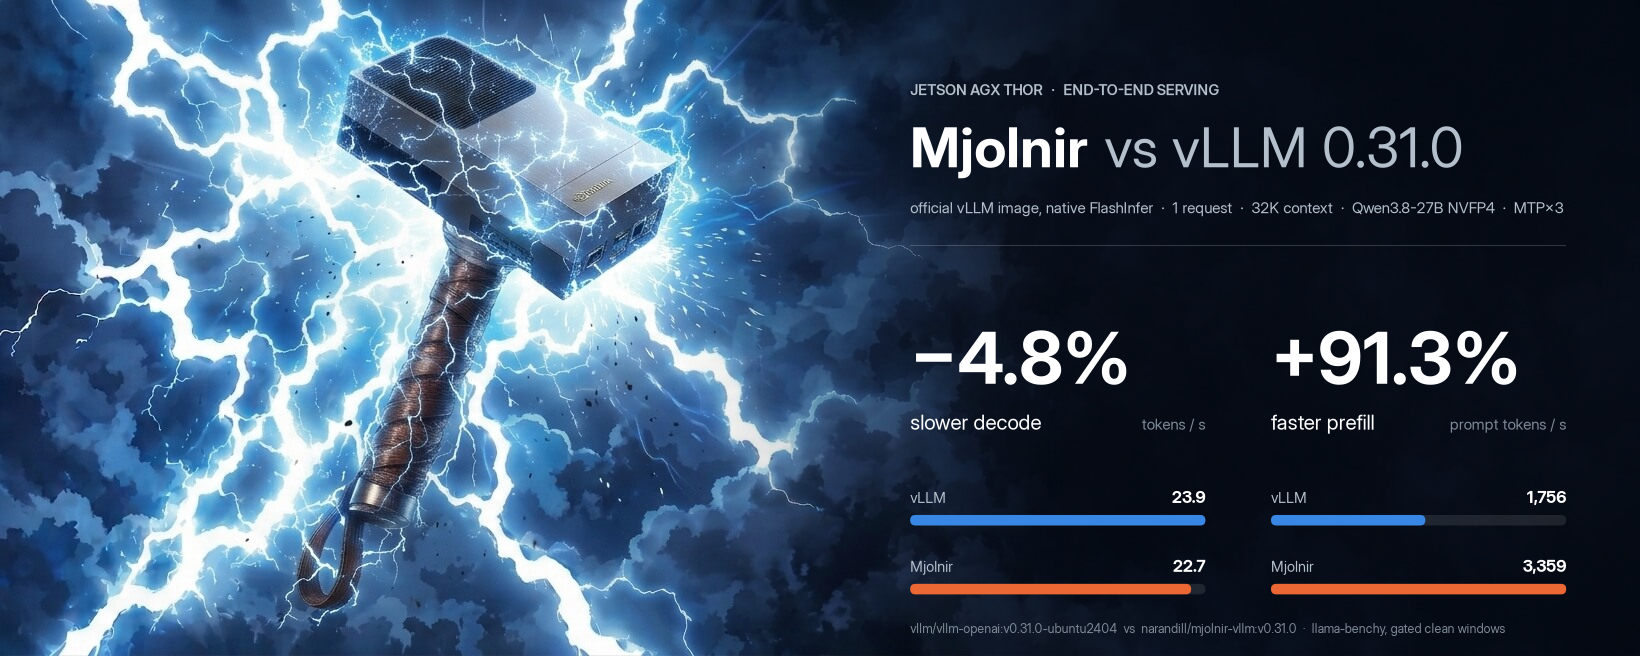
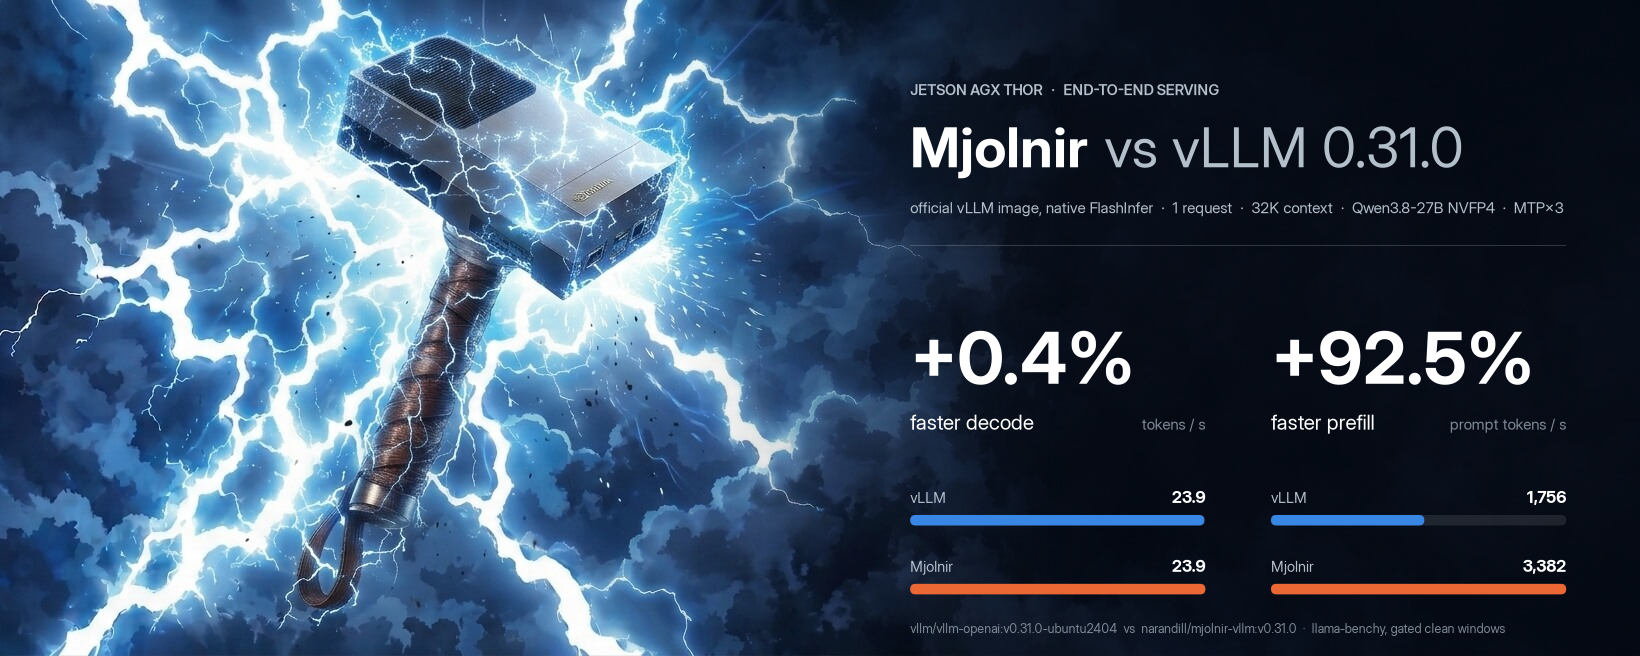
update base model + bench results for E2M3

diff --git a/src/mjolnir-cli/mjolnir_cli/config.py b/src/mjolnir-cli/mjolnir_cli/config.py
@@ -22,7 +22,7 @@ import yaml
 
 # ── Model / config ───────────────────────────────────────────────────────────
 DEFAULT_MODEL = "Qwen/Qwen3.8-27B"
-DEFAULT_QUANT = "NVFP4_MJOLNIR"  # --attention-backend MJOLNIR (this repo's kernel)
+DEFAULT_QUANT = "NVFP4_MJOLNIR_E2M3"  # --attention-backend MJOLNIR (this repo's kernel)
 BASELINE_QUANT = "NVFP4"  # FlashInfer — the fastest stock backend on Thor
 FA2_QUANT = "NVFP4_FA2"  # FlashAttention 2 — vLLM 0.31.0's sm_110 default (bf16 KV)
 SERVED_MODEL_NAME = "Qwen/Qwen3.8-27B"

diff --git a/README.md b/README.md
@@ -44,7 +44,7 @@ Every generated token re-reads the whole KV cache, so on a 273 GB/s edge GPU **d
 </picture>
 </p>
 
-> <sub>End to end on a Jetson AGX Thor (MTP, 3 speculative tokens), one request at 32K context: decode <b>−4.8%</b>, prefill <b>+91.3%</b>, time to first token <b>19.96 s → 11.40 s</b>, inter-token latency <b>42.0 ms → 44.5 ms</b> vs the official vLLM image — <a href="#official-vllm-image-vs-mjolnir">all cells</a>.</sub>
+> <sub>End to end on a Jetson AGX Thor (MTP, 3 speculative tokens), one request at 32K context: decode <b>+0.4%</b>, prefill <b>+92.5%</b>, time to first token <b>19.96 s → 11.33 s</b>, inter-token latency <b>42.0 ms → 42.1 ms</b> vs the official vLLM image — <a href="#official-vllm-image-vs-mjolnir">all cells</a>.</sub>
 
 <p align="center">
 <picture>
@@ -148,23 +148,23 @@ Each cell: official → **Mjolnir** (gain; positive = Mjolnir better: green = be
 
 | context | requests | decode (t/s, ↑) | prefill (t/s, ↑) | TTFT (ms, ↓) | ITL (ms, ↓) |
 |--:|--:|--:|--:|--:|--:|
-| no ctx | 1 | 24.6 → **24.0** ($\color{grey}{\text{−2.6\%}}$) | — | 819 → **740** ($\color{#16a34a}{\text{+10.6\%}}$) | 40.9 → **42.4** ($\color{#dc2626}{\text{−3.5\%}}$) |
-| 4K | 1 | 25.6 → **24.3** ($\color{#dc2626}{\text{−5.0\%}}$) | 2,852 → **8,210** ($\color{#16a34a}{\text{+187.8\%}}$) | 2,289 → **1,788** ($\color{#16a34a}{\text{+28.0\%}}$) | 39.4 → **41.4** ($\color{#dc2626}{\text{−4.8\%}}$) |
-| 8K | 1 | 22.9 → **23.1** ($\color{grey}{\text{+0.9\%}}$) | 2,559 → **4,545** ($\color{#16a34a}{\text{+77.6\%}}$) | 4,136 → **3,292** ($\color{#16a34a}{\text{+25.6\%}}$) | 44.1 → **43.4** ($\color{grey}{\text{+1.6\%}}$) |
-| 16K | 1 | 23.5 → **23.6** ($\color{grey}{\text{+0.5\%}}$) | 2,203 → **3,895** ($\color{#16a34a}{\text{+76.8\%}}$) | 8,501 → **5,771** ($\color{#16a34a}{\text{+47.3\%}}$) | 43.3 → **42.6** ($\color{grey}{\text{+1.7\%}}$) |
-| 32K | 1 | 23.9 → **22.7** ($\color{#dc2626}{\text{−4.8\%}}$) | 1,756 → **3,359** ($\color{#16a34a}{\text{+91.3\%}}$) | 19,960 → **11,405** ($\color{#16a34a}{\text{+75.0\%}}$) | 42.0 → **44.5** ($\color{#dc2626}{\text{−5.6\%}}$) |
-| no ctx | 2 | 44.3 → **45.9** ($\color{#16a34a}{\text{+3.7\%}}$) | 2,724 → **3,245** ($\color{#16a34a}{\text{+19.1\%}}$) | 1,443 → **1,138** ($\color{#16a34a}{\text{+26.9\%}}$) | 42.7 → **40.6** ($\color{#16a34a}{\text{+5.2\%}}$) |
-| 4K | 2 | 45.1 → **41.7** ($\color{#dc2626}{\text{−7.4\%}}$) | 2,746 → **3,502** ($\color{#16a34a}{\text{+27.5\%}}$) | 4,415 → **3,384** ($\color{#16a34a}{\text{+30.4\%}}$) | 41.5 → **44.8** ($\color{#dc2626}{\text{−7.3\%}}$) |
-| 8K | 2 | 43.9 → **43.5** ($\color{grey}{\text{−0.8\%}}$) | 2,504 → **3,292** ($\color{#16a34a}{\text{+31.5\%}}$) | 8,118 → **6,083** ($\color{#16a34a}{\text{+33.5\%}}$) | 43.1 → **42.9** ($\color{grey}{\text{+0.5\%}}$) |
-| 16K | 2 | 42.4 → **43.5** ($\color{grey}{\text{+2.7\%}}$) | 2,189 → **3,262** ($\color{#16a34a}{\text{+49.0\%}}$) | 16,781 → **11,149** ($\color{#16a34a}{\text{+50.5\%}}$) | 44.8 → **43.3** ($\color{#16a34a}{\text{+3.6\%}}$) |
-| 32K | 2 | 33.7 → **35.6** ($\color{#16a34a}{\text{+5.6\%}}$) | 1,748 → **3,071** ($\color{#16a34a}{\text{+75.7\%}}$) | 39,137 → **22,047** ($\color{#16a34a}{\text{+77.5\%}}$) | 50.5 → **48.9** ($\color{#16a34a}{\text{+3.3\%}}$) |
-| no ctx | 4 | 85.3 → **78.4** ($\color{#dc2626}{\text{−8.1\%}}$) | 2,927 → **3,539** ($\color{#16a34a}{\text{+20.9\%}}$) | 2,767 → **2,209** ($\color{#16a34a}{\text{+25.2\%}}$) | 42.6 → **45.0** ($\color{#dc2626}{\text{−5.3\%}}$) |
-| 4K | 4 | 82.9 → **73.8** ($\color{#dc2626}{\text{−11.1\%}}$) | 2,717 → **3,412** ($\color{#16a34a}{\text{+25.6\%}}$) | 9,012 → **7,011** ($\color{#16a34a}{\text{+28.5\%}}$) | 44.7 → **47.3** ($\color{#dc2626}{\text{−5.4\%}}$) |
-| 8K | 4 | 70.2 → **62.1** ($\color{#dc2626}{\text{−11.6\%}}$) | 2,478 → **3,270** ($\color{#16a34a}{\text{+32.0\%}}$) | 16,208 → **11,895** ($\color{#16a34a}{\text{+36.3\%}}$) | 47.3 → **49.5** ($\color{#dc2626}{\text{−4.4\%}}$) |
-| 16K | 4 | 41.3 → **42.6** ($\color{#16a34a}{\text{+3.0\%}}$) | 2,163 → **3,188** ($\color{#16a34a}{\text{+47.4\%}}$) | 32,462 → **21,161** ($\color{#16a34a}{\text{+53.4\%}}$) | 60.2 → **61.7** ($\color{grey}{\text{−2.4\%}}$) |
-| 32K | 4 | 11.5 → **17.0** ($\color{#16a34a}{\text{+48.0\%}}$) | 1,733 → **2,990** ($\color{#16a34a}{\text{+72.6\%}}$) | 65,974 → **37,300** ($\color{#16a34a}{\text{+76.9\%}}$) | 161.8 → **121.7** ($\color{#16a34a}{\text{+33.0\%}}$) |
+| no ctx | 1 | 24.6 → **25.0** ($\color{grey}{\text{+1.7\%}}$) | — | 819 → **676** ($\color{#16a34a}{\text{+21.1\%}}$) | 40.9 → **40.4** ($\color{grey}{\text{+1.3\%}}$) |
+| 4K | 1 | 25.6 → **26.1** ($\color{grey}{\text{+2.1\%}}$) | 2,852 → **7,825** ($\color{#16a34a}{\text{+174.3\%}}$) | 2,289 → **1,822** ($\color{#16a34a}{\text{+25.6\%}}$) | 39.4 → **38.8** ($\color{grey}{\text{+1.6\%}}$) |
+| 8K | 1 | 22.9 → **24.0** ($\color{#16a34a}{\text{+4.6\%}}$) | 2,559 → **4,988** ($\color{#16a34a}{\text{+94.9\%}}$) | 4,136 → **3,087** ($\color{#16a34a}{\text{+34.0\%}}$) | 44.1 → **41.9** ($\color{#16a34a}{\text{+5.4\%}}$) |
+| 16K | 1 | 23.5 → **24.6** ($\color{#16a34a}{\text{+4.7\%}}$) | 2,203 → **4,004** ($\color{#16a34a}{\text{+81.7\%}}$) | 8,501 → **5,637** ($\color{#16a34a}{\text{+50.8\%}}$) | 43.3 → **40.8** ($\color{#16a34a}{\text{+6.3\%}}$) |
+| 32K | 1 | 23.9 → **23.9** ($\color{grey}{\text{+0.4\%}}$) | 1,756 → **3,382** ($\color{#16a34a}{\text{+92.5\%}}$) | 19,960 → **11,330** ($\color{#16a34a}{\text{+76.2\%}}$) | 42.0 → **42.1** ($\color{grey}{\text{−0.2\%}}$) |
+| no ctx | 2 | 44.3 → **47.2** ($\color{#16a34a}{\text{+6.7\%}}$) | 2,724 → **3,386** ($\color{#16a34a}{\text{+24.3\%}}$) | 1,443 → **1,066** ($\color{#16a34a}{\text{+35.4\%}}$) | 42.7 → **40.0** ($\color{#16a34a}{\text{+6.7\%}}$) |
+| 4K | 2 | 45.1 → **45.3** ($\color{grey}{\text{+0.6\%}}$) | 2,746 → **3,480** ($\color{#16a34a}{\text{+26.7\%}}$) | 4,415 → **3,438** ($\color{#16a34a}{\text{+28.4\%}}$) | 41.5 → **41.4** ($\color{grey}{\text{+0.3\%}}$) |
+| 8K | 2 | 43.9 → **46.6** ($\color{#16a34a}{\text{+6.1\%}}$) | 2,504 → **3,390** ($\color{#16a34a}{\text{+35.4\%}}$) | 8,118 → **5,945** ($\color{#16a34a}{\text{+36.6\%}}$) | 43.1 → **40.4** ($\color{#16a34a}{\text{+6.7\%}}$) |
+| 16K | 2 | 42.4 → **42.8** ($\color{grey}{\text{+0.9\%}}$) | 2,189 → **3,300** ($\color{#16a34a}{\text{+50.8\%}}$) | 16,781 → **10,919** ($\color{#16a34a}{\text{+53.7\%}}$) | 44.8 → **43.1** ($\color{#16a34a}{\text{+4.0\%}}$) |
+| 32K | 2 | 33.7 → **36.9** ($\color{#16a34a}{\text{+9.5\%}}$) | 1,748 → **3,083** ($\color{#16a34a}{\text{+76.4\%}}$) | 39,137 → **21,899** ($\color{#16a34a}{\text{+78.7\%}}$) | 50.5 → **46.1** ($\color{#16a34a}{\text{+9.6\%}}$) |
+| no ctx | 4 | 85.3 → **75.5** ($\color{#dc2626}{\text{−11.5\%}}$) | 2,927 → **3,333** ($\color{#16a34a}{\text{+13.9\%}}$) | 2,767 → **2,283** ($\color{#16a34a}{\text{+21.2\%}}$) | 42.6 → **44.7** ($\color{#dc2626}{\text{−4.6\%}}$) |
+| 4K | 4 | 82.9 → **76.8** ($\color{#dc2626}{\text{−7.5\%}}$) | 2,717 → **3,397** ($\color{#16a34a}{\text{+25.0\%}}$) | 9,012 → **7,033** ($\color{#16a34a}{\text{+28.1\%}}$) | 44.7 → **46.2** ($\color{#dc2626}{\text{−3.3\%}}$) |
+| 8K | 4 | 70.2 → **56.1** ($\color{#dc2626}{\text{−20.1\%}}$) | 2,478 → **3,349** ($\color{#16a34a}{\text{+35.2\%}}$) | 16,208 → **11,286** ($\color{#16a34a}{\text{+43.6\%}}$) | 47.3 → **53.4** ($\color{#dc2626}{\text{−11.4\%}}$) |
+| 16K | 4 | 41.3 → **43.9** ($\color{#16a34a}{\text{+6.2\%}}$) | 2,163 → **3,215** ($\color{#16a34a}{\text{+48.7\%}}$) | 32,462 → **21,083** ($\color{#16a34a}{\text{+54.0\%}}$) | 60.2 → **59.8** ($\color{grey}{\text{+0.7\%}}$) |
+| 32K | 4 | 11.5 → **17.4** ($\color{#16a34a}{\text{+51.4\%}}$) | 1,733 → **3,024** ($\color{#16a34a}{\text{+74.5\%}}$) | 65,974 → **36,736** ($\color{#16a34a}{\text{+79.6\%}}$) | 161.8 → **120.2** ($\color{#16a34a}{\text{+34.6\%}}$) |
 
-> <sub>official: `vllm/vllm-openai:v0.31.0-ubuntu2404 · NVFP4 (vLLM 0.31.0 (official image))` · Mjolnir: `narandill/mjolnir-vllm:v0.31.0 · NVFP4_MJOLNIR (Mjolnir)` · TTFT = time to first token; ITL = inter-token latency (1000 / per-request decode rate) · from [`benchmarks/history.jsonl`](benchmarks/history.jsonl).</sub>
+> <sub>official: `vllm/vllm-openai:v0.31.0-ubuntu2404 · NVFP4 (vLLM 0.31.0 (official image))` · Mjolnir: `narandill/mjolnir-vllm:v0.31.0 · NVFP4_MJOLNIR_E2M3 (Mjolnir fp6 KV)` · TTFT = time to first token; ITL = inter-token latency (1000 / per-request decode rate) · from [`benchmarks/history.jsonl`](benchmarks/history.jsonl).</sub>
 
 ## How the kernel works
 
